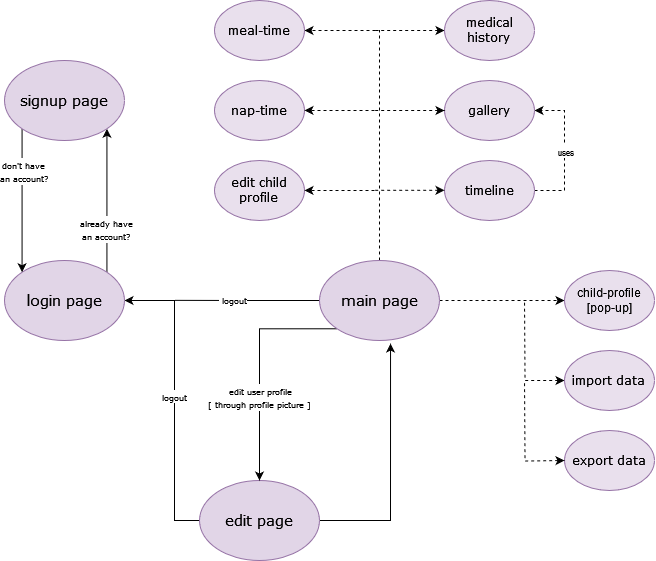
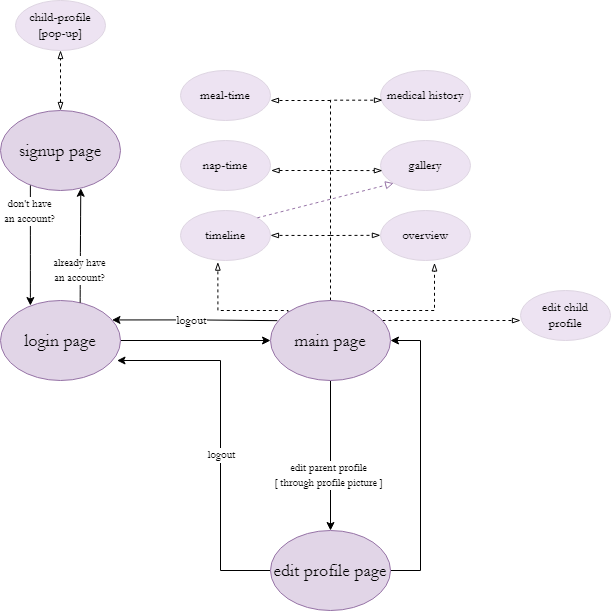
dokumentation fuer unsere Zukunft

diff --git a/src/public/documentation/documentation.html b/src/public/documentation/documentation.html
@@ -259,7 +259,8 @@
 
       <br>
       The diagrams show the interaction between pages. The first one was the initial plan of the application and the following one displays
-      the progress of all enabled features can be noticed.
+      the progress of all enabled features can be noticed. We redesigned some of the components' interactions for making the app more intuitive
+      and accessible to our users, as well as added new functionalities.
     </section>
     <section id="users">
       <h4>2.3 User Classes and Characteristics</h4>

diff --git a/src/config.js b/src/config.js
@@ -2,8 +2,8 @@
 const database = {
   user: "postgres",
   host: "localhost",
-  database: "TW",
-  password: "daria",
+  database: "general",
+  password: "sql",
   port: 5432,
 };
 
